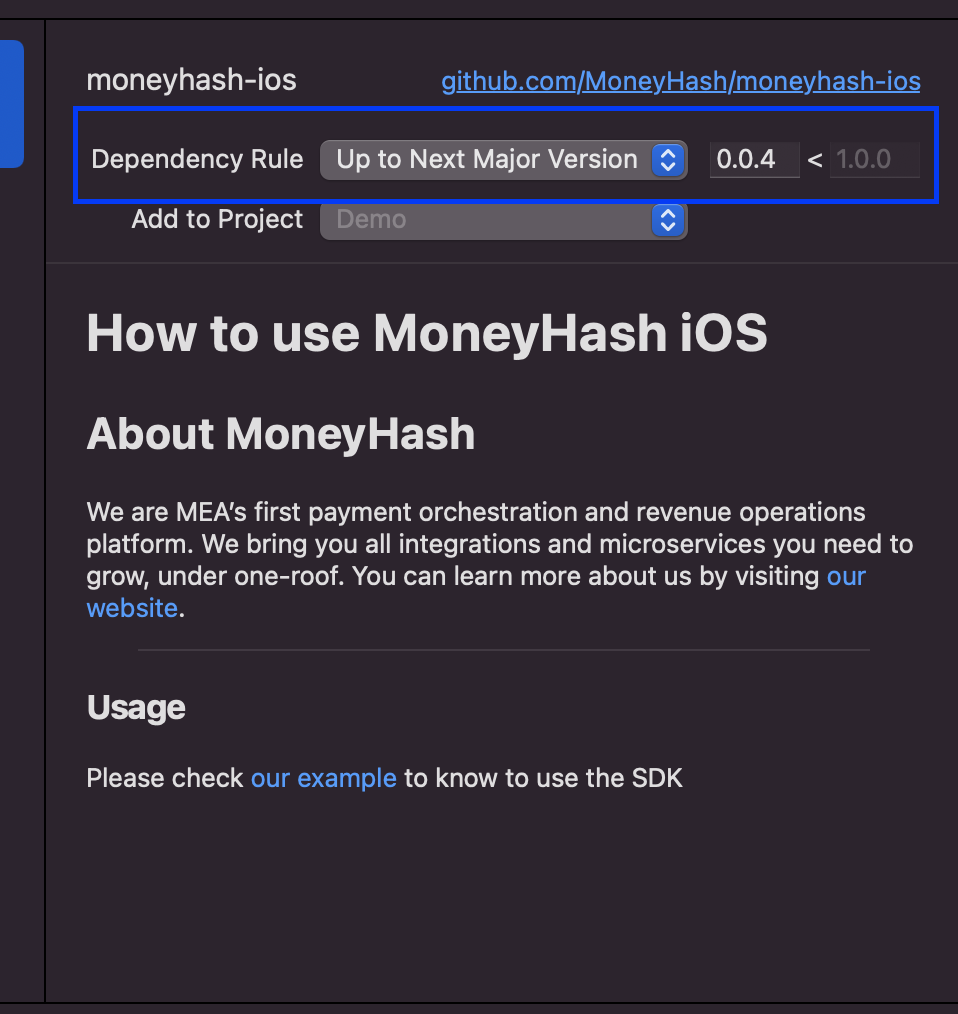
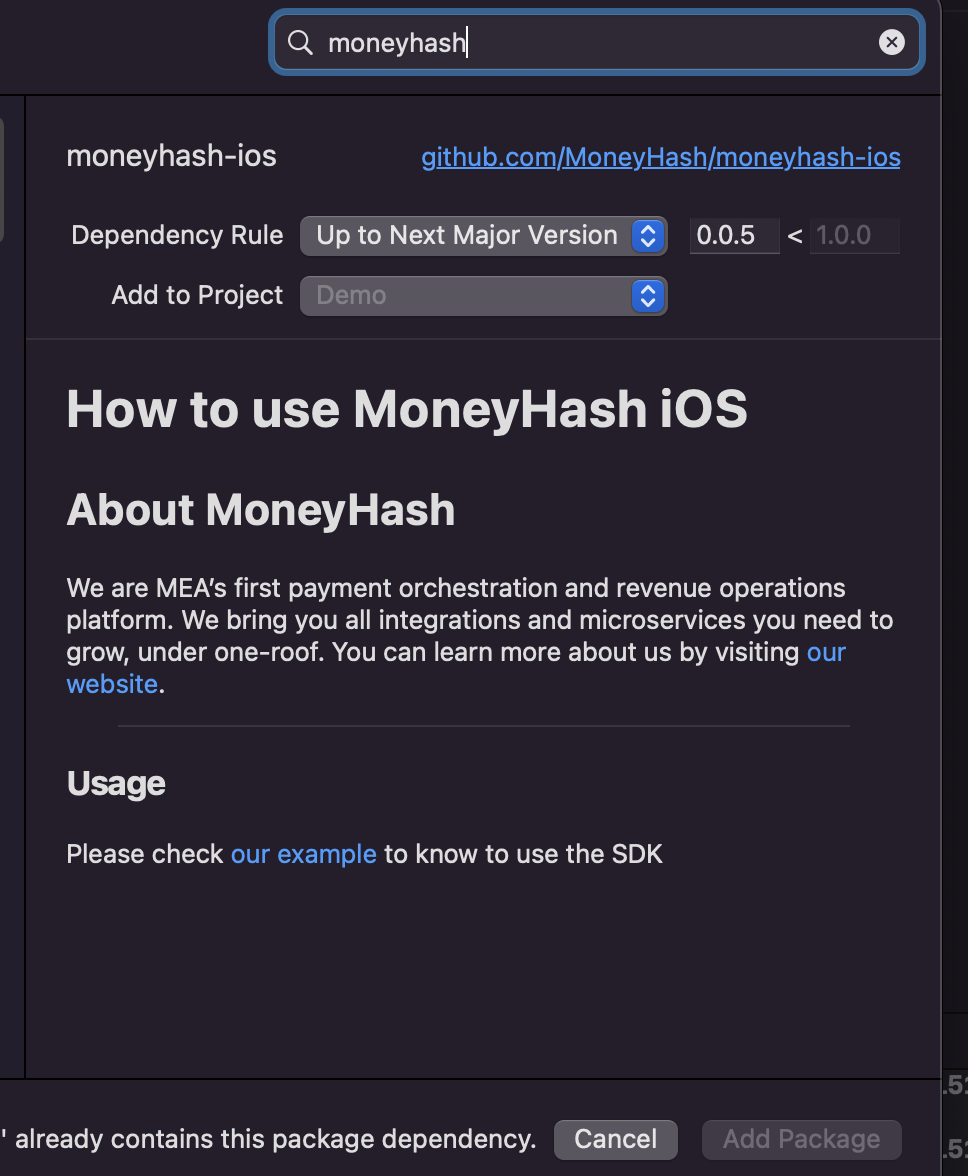
update example

diff --git a/Demo/ViewController.swift b/Demo/ViewController.swift
@@ -17,23 +17,26 @@ class ViewController: UIViewController {
         DispatchQueue.main.async {
             MHPaymentHandler.start(
                 on: self,
-                withPaymentId: "Your payment id will be here"
-            ) { status in
-                switch status {
-                case .error(errors: let errors):
-                    print("errors")
-                case .failed:
-                    print("faild")
-                case .requireExtraAction(actions: let actions):
-                    print("actions")
-                case .success:
-                    print("success")
+                withPaymentId: "PgwXvOZ"
+            ) { result in
+                switch result {
+                case .success(let result):
+                    fallthrough
+
+                case .requireExtraAction(_, let result):
+                    fallthrough
+
+                case .failed(let result):
+                    fallthrough
+
+                case .error:
+                    fallthrough
+                    
                 case .cancelled:
-                    print("cancelled")
-                case .unknown:
-                    print("unknown")
-                @unknown default:
-                    print("unknown")
+                    fallthrough
+                    
+                default:
+                    print(String(describing: result))
                 }
             }
         }

diff --git a/README.md b/README.md
@@ -30,7 +30,7 @@ Search for the MoneyHash SDK using the repo's URL:
 https://github.com/MoneyHash/moneyhash-ios
 ```
 
-Next, set the **Dependency Rule** to be `Up to Next Major Version` and specify `0.0.4` as the lower bound.
+Next, set the **Dependency Rule** to be `Up to Next Major Version` and specify `0.0.5` as the lower bound.
 
 Then, select **Add Package**.
 
